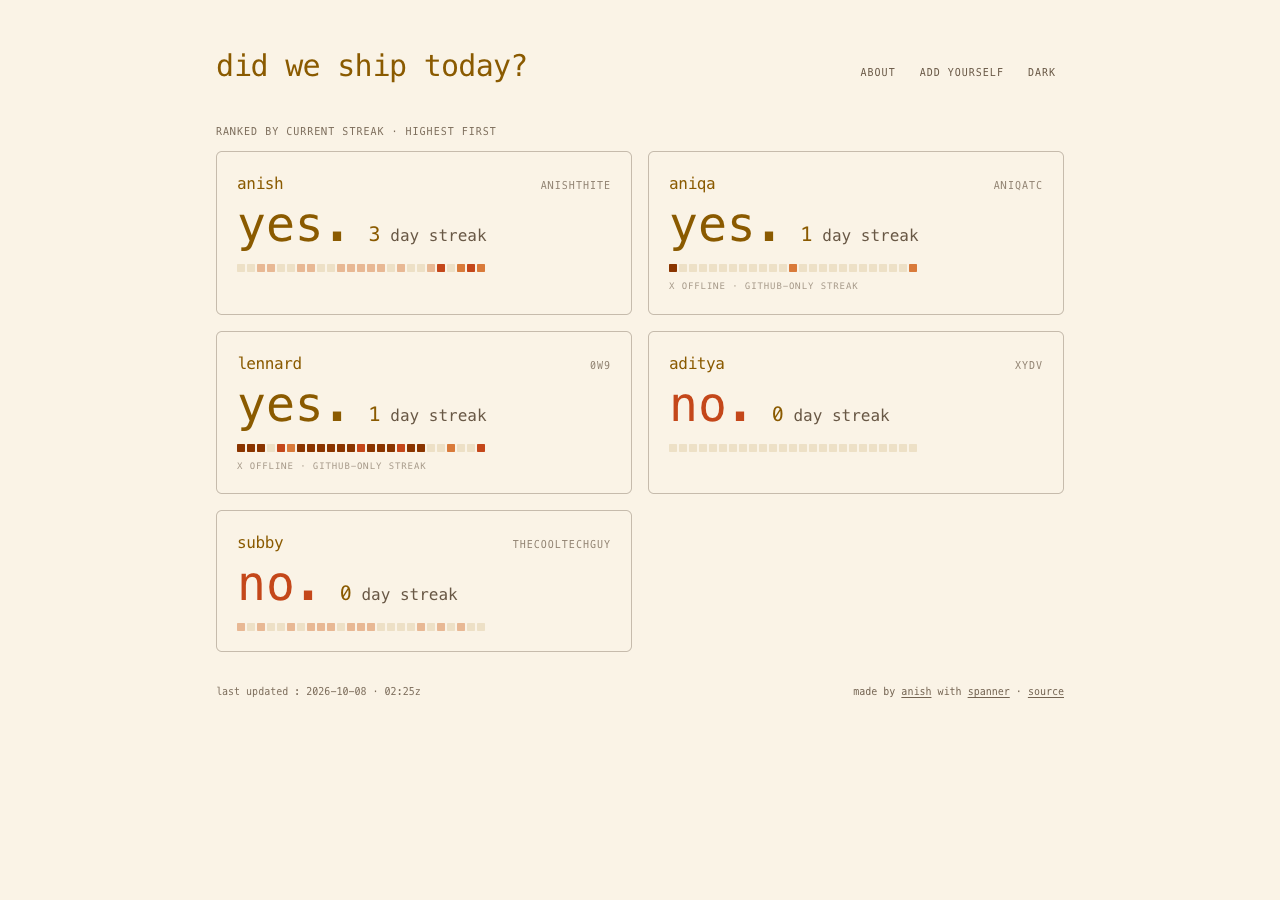
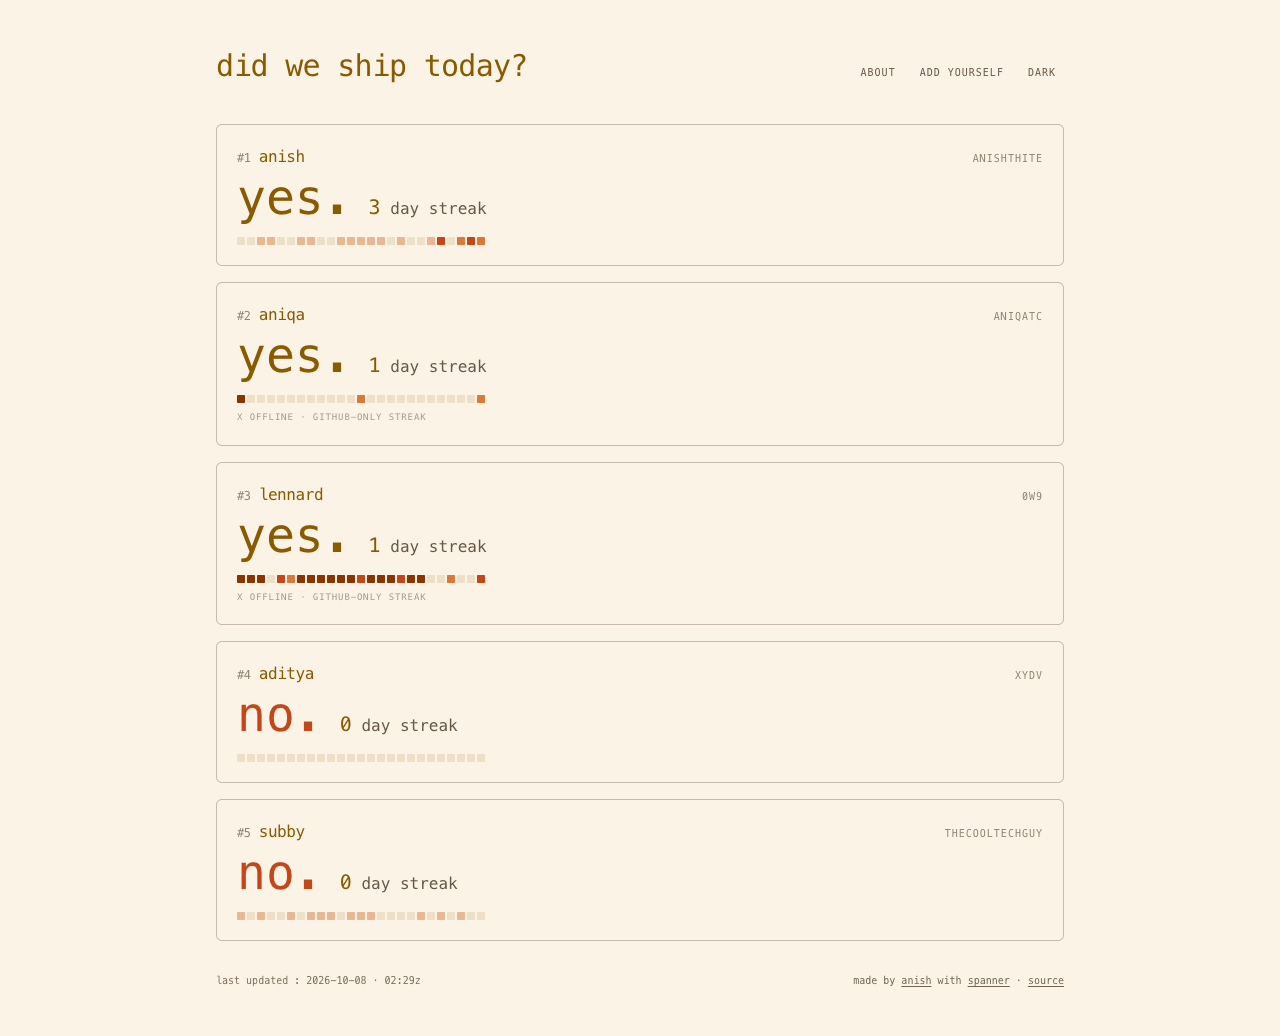
fix: number streak cards and keep a single column

diff --git a/apps/web/src/app/page.tsx b/apps/web/src/app/page.tsx
@@ -57,12 +57,9 @@ export default async function SummaryPage() {
         </div>
       </header>
 
-      <p className="mb-3 text-[10px] uppercase tracking-widest text-nerv-text/60">
-        ranked by current streak · highest first
-      </p>
-      <div className="grid gap-3 sm:gap-4 sm:grid-cols-2">
-        {cards.map((card) => (
-          <UserCard key={card.user.slug} card={card} />
+      <div className="grid grid-cols-1 gap-3 sm:gap-4">
+        {cards.map((card, index) => (
+          <UserCard key={card.user.slug} card={card} rank={index + 1} />
         ))}
       </div>
 
@@ -99,7 +96,7 @@ function isShipped(snapshot: Snapshot | null): boolean {
   return xOffline ? ghToday > 0 : ghToday > 0 && xToday > 0;
 }
 
-function UserCard({ card }: { card: UserCardData }) {
+function UserCard({ card, rank }: { card: UserCardData; rank: number }) {
   const { user, snapshot, error } = card;
   const shipped = isShipped(snapshot);
   const streak = snapshot?.combined.streak_current ?? 0;
@@ -128,6 +125,9 @@ function UserCard({ card }: { card: UserCardData }) {
     >
       <div className="flex items-baseline justify-between gap-2 mb-1">
         <span className="text-nerv-amber text-sm sm:text-base lowercase font-mono tracking-tight truncate">
+          <span aria-label={`Position ${rank}`} className="mr-2 text-xs tabular-nums text-nerv-text/50">
+            #{rank}
+          </span>
           {user.displayName}
         </span>
         <span className="text-[10px] uppercase tracking-widest text-nerv-text/50 shrink-0">

diff --git a/implementation-notes/2026-10-07-streak-ranking.html b/implementation-notes/2026-10-07-streak-ranking.html
@@ -13,4 +13,5 @@
 <h2>Tradeoffs</h2><table><tr><th>ID</th><th>Choice / rationale</th></tr><tr id="T-001"><td>T-001</td><td>Use a brief ordering label over numbered placements; ties remain visibly equal without inventing a ranking policy.</td></tr></table>
 <h2>Reversibility</h2><p id="R-001">R-001 · low: revert the comparator import, sort, and label; no persisted data changes.</p>
 <h2>Definition of done</h2><ul><li><code>pnpm tsx scripts/check-ranking.ts</code> passes.</li><li><code>pnpm typecheck</code> passes.</li><li>Browser shows streaks <code>3, 1, 1, 0, 0</code> in order at desktop and 390px mobile; no mobile overflow.</li><li>Desktop/mobile screenshots reviewed; only console error is the pre-existing missing <code>favicon.ico</code>.</li><li>Open PR with this plan and screenshot links.</li></ul>
+<h2>Layout revision</h2><table><tr><th>ID</th><th>Choice / rationale</th></tr><tr id="D-004"><td>D-004</td><td>Supersedes D-002 and T-001 for presentation: add small sequential position numbers, retain stable tie ordering, stack cards in one column at every viewport, and remove the ordering subheader per user request.</td></tr></table>
 </body></html>
